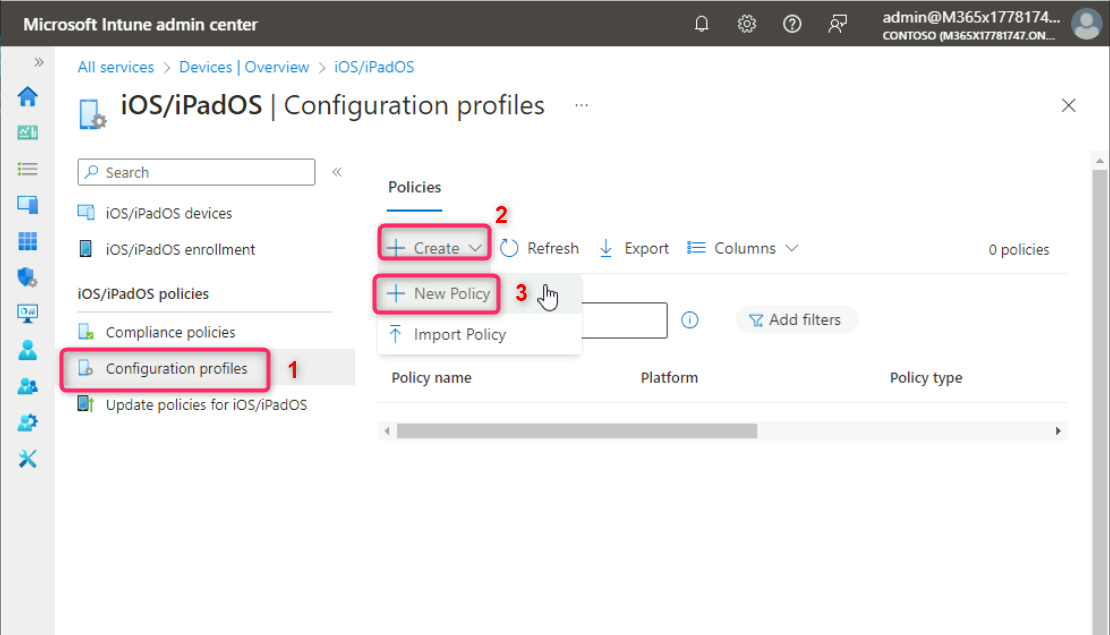
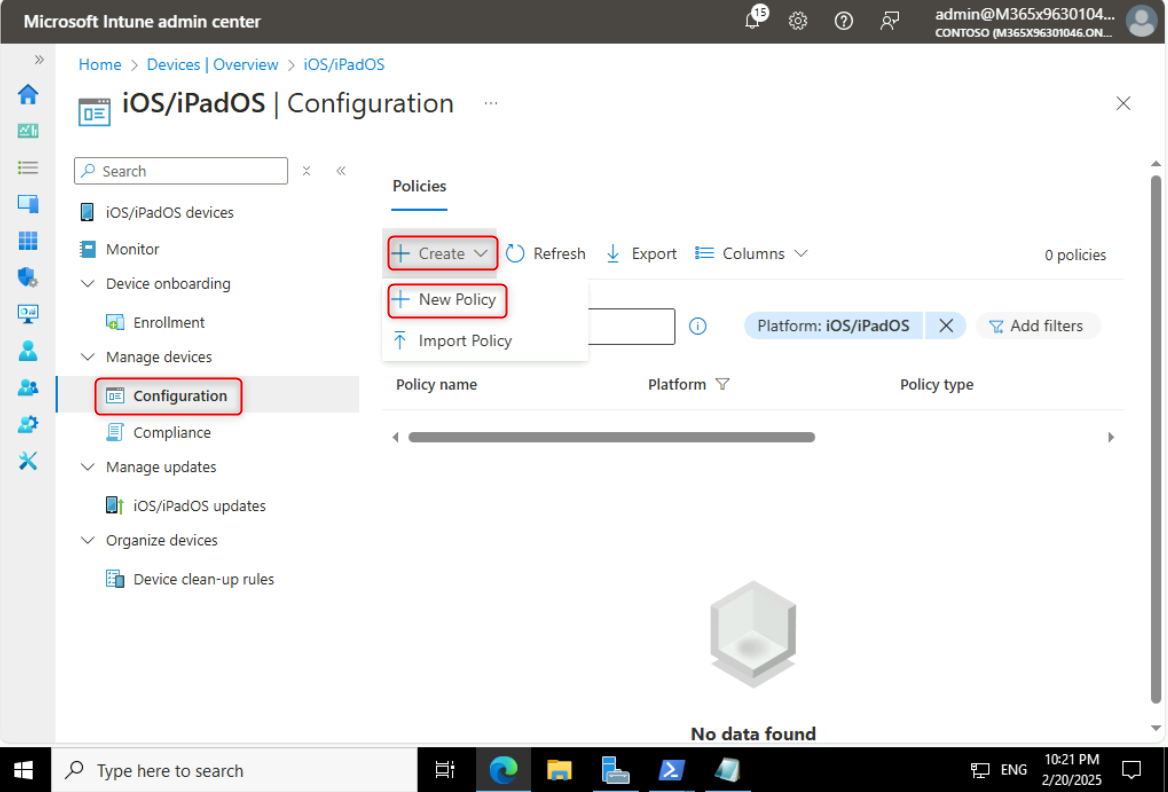
indentation, screens changed

diff --git a/instructions/labs/lab9/Lab 9 - Using a Configuring Profile to configure iOS and iPadOS Wi-Fi settings.md b/instructions/labs/lab9/Lab 9 - Using a Configuring Profile to configure iOS and iPadOS Wi-Fi settings.md
@@ -30,7 +30,7 @@ follows:
 
 **Task 1: Create the iOS_iPadOS device group**
 
-1.  Switch to SEA-SVR
+1.  Switch to SEA-SVR1
      In the **Microsoft Entra admin center** window, navigate and select
     **Groups**, then click on **All groups**.
 
@@ -77,10 +77,9 @@ requirements**
     ![A screenshot of a computer Description automatically
     generated](./media/image6.png)
 
-3.  On the **iOS/iPadOS** page, navigate and click on **Configuration
-    profiles**.
+3.  On the **iOS/iPadOS** page, navigate and click on **Configuration**, Under **Manage devices**.
 
-4.  On the **iOS/iPadOS | Configuration profiles** page, in the
+4.  On the **iOS/iPadOS | Configuration** page, in the
     **Policies** tab, click on **+ Create** and select **+ New Policy**.
 
     ![](./media/image7.png)
